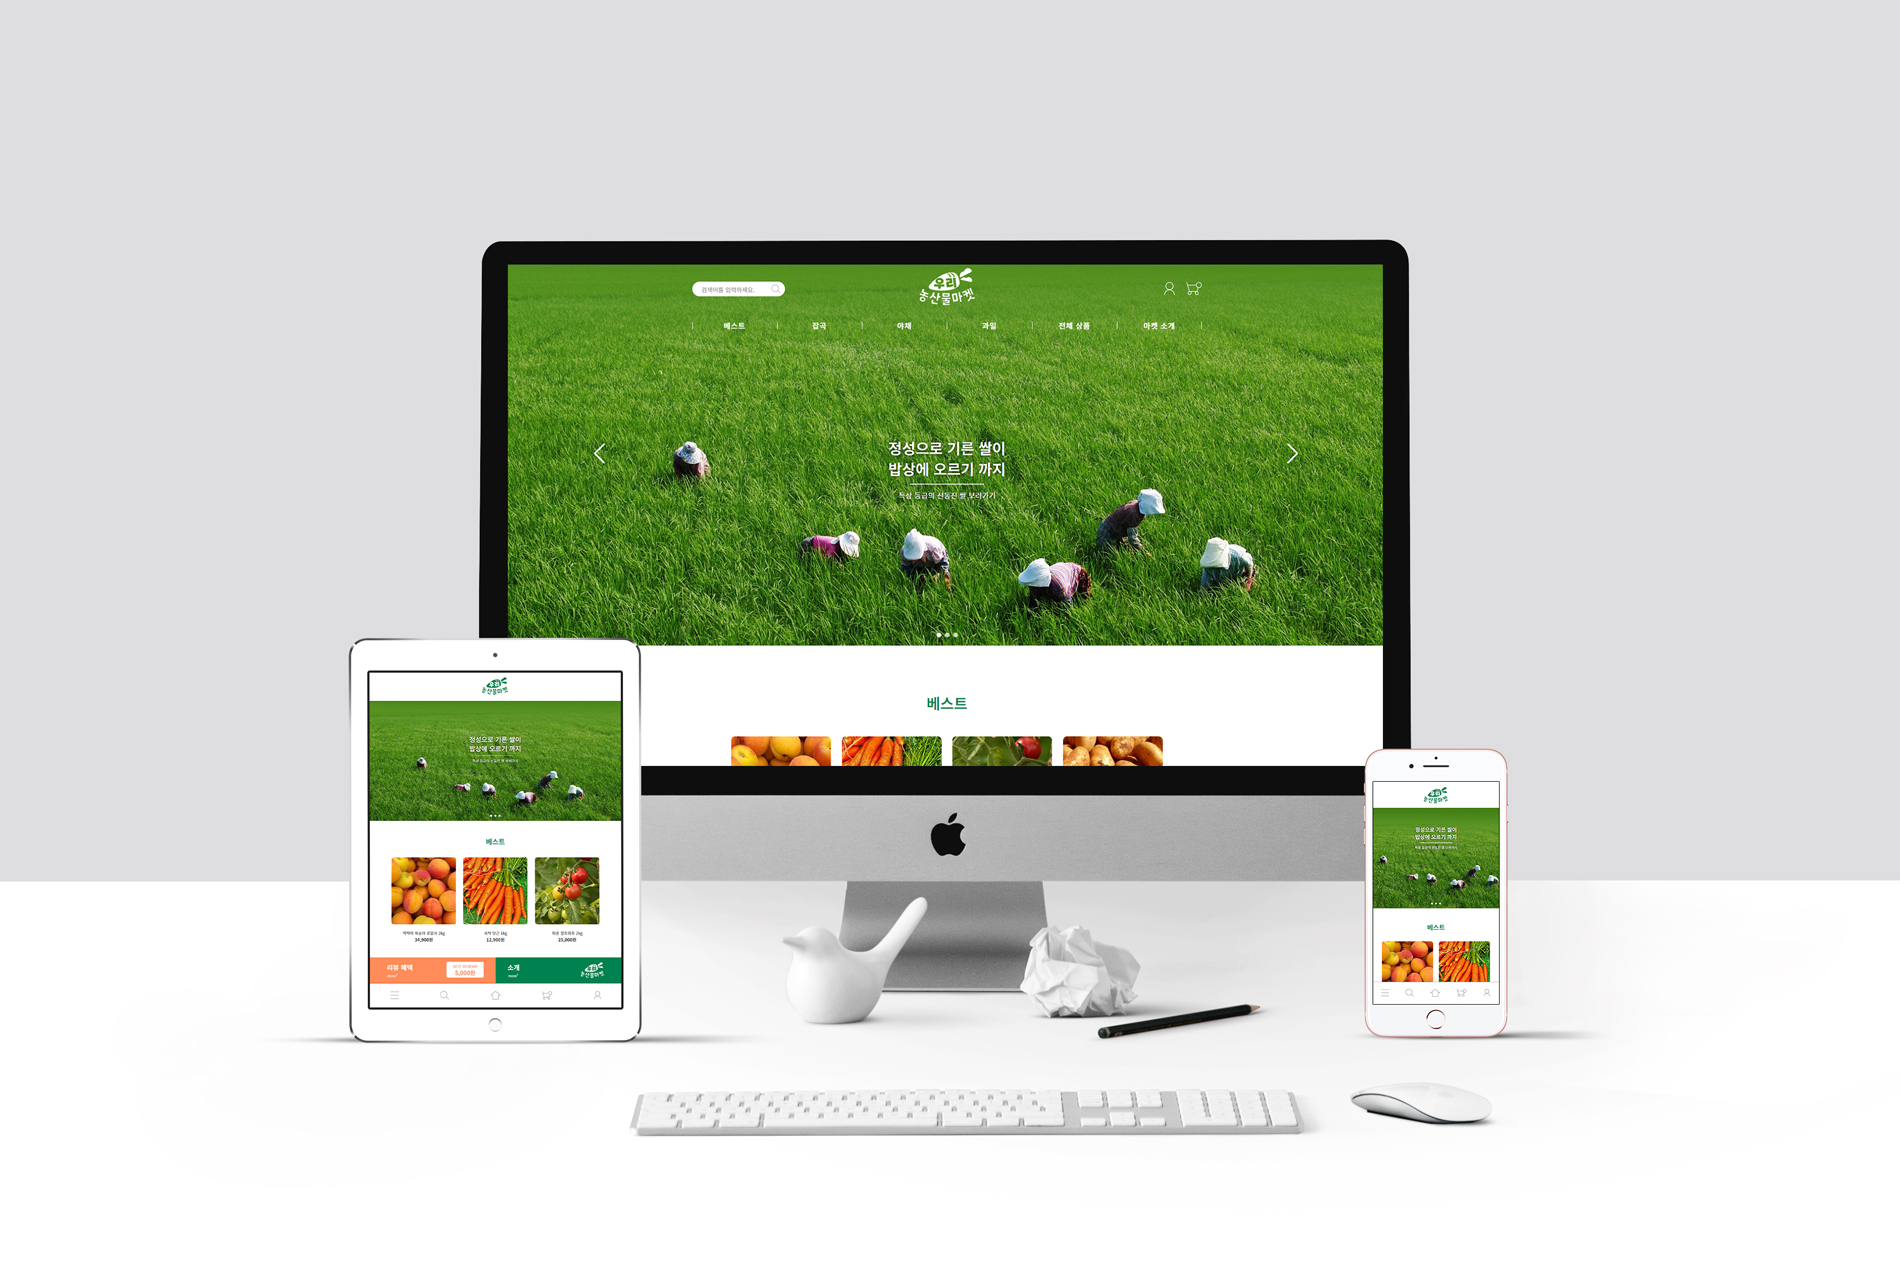
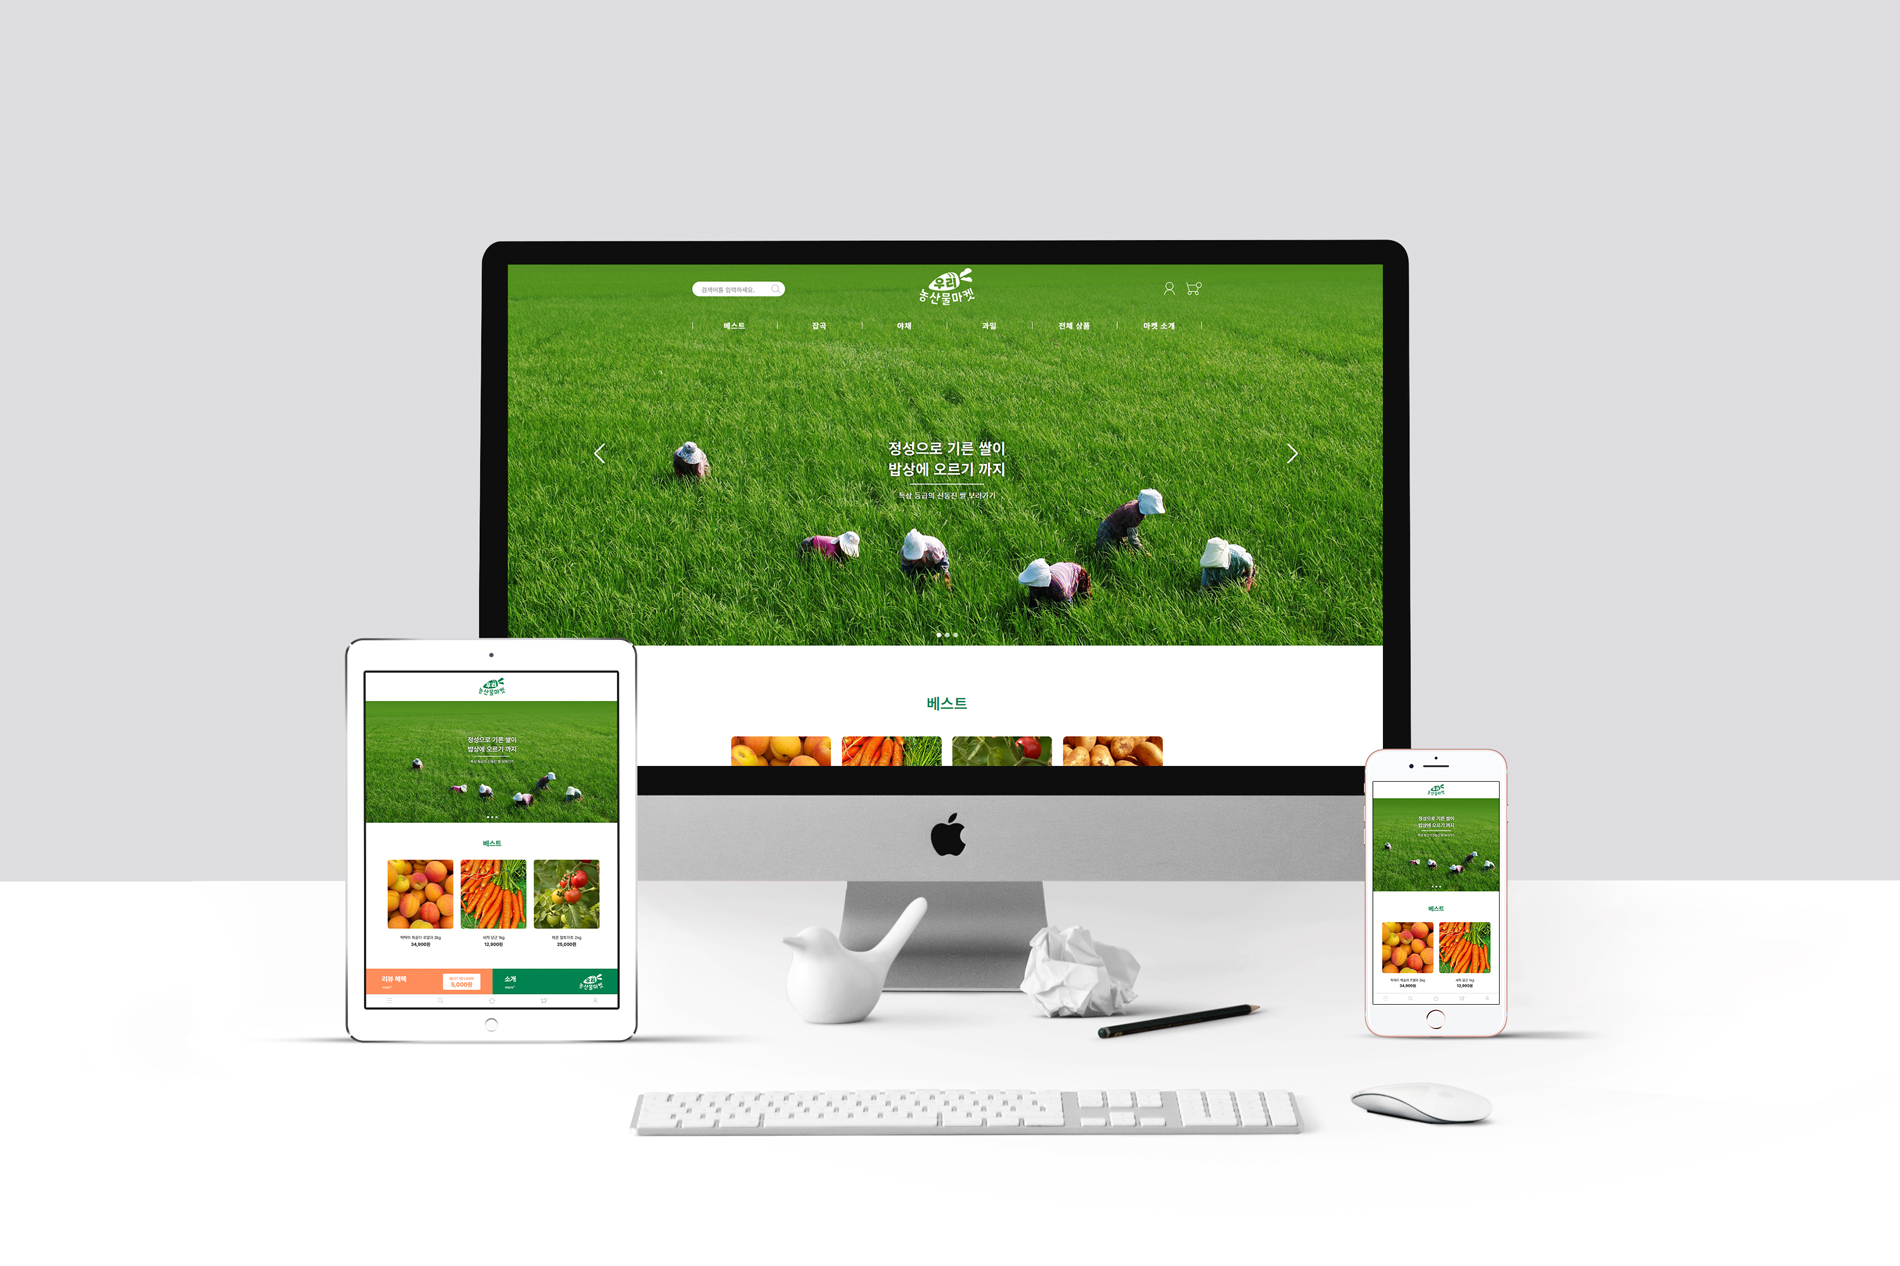
수정
수정

Changed region(s): [[0.1553, 0.5237, 0.3416, 0.8009], [0.7142, 0.6161, 0.8074, 0.8009]]

diff --git a/woori/css/style.css b/woori/css/style.css
@@ -37,7 +37,7 @@ h1, h2, h3, h4, p, strong, span {font-family: "Pretendard Variable";}
 
 /* 메뉴 로고 */
 .menu_m {display: none;}
-.menu_a {width: 100%; height: 108px; display: flex;
+.menu_a {width: 100%; height: 10.8rem; display: flex;
     justify-content: space-between; align-items: center;
     padding-top: 1rem; box-sizing: border-box; position: relative;}
 .logo a {display: block; width: 100%; height: 100%;}
@@ -78,7 +78,7 @@ h1, h2, h3, h4, p, strong, span {font-family: "Pretendard Variable";}
 
 .swiper-slide a {width: 100%; height: 100%; display: block; position: relative; z-index: 101;}
 .swiper-slide a strong {position: absolute; top: 54%; left: 50%; text-align: center;
-    color: #fff; font-size: 3.2rem; font-weight: 600; line-height: 1.4;
+    color: #fff; font-size: 3.2rem; font-weight: 600; line-height: 1.4; white-space: nowrap;
     transform: translate(-50%,-50%); text-shadow: 0px 0px 0.6rem rgb(0,0,0,0.8);}
 .swiper-slide a strong .line::after {content: ''; display: block; width: 16rem; height: 0.2rem;
     background-color: #fff; margin: 1rem 0; 
@@ -191,7 +191,7 @@ span.swiper-pagination-bullet-active {background: #fff;}
 /* 리뷰 */
 #review .container {padding-top: 10rem; width: 100%; /* height: 100%; */ /* box-sizing: border-box; */}
 .review_list {display: flex; justify-content: space-between;  padding-bottom: 10rem;}
-.review_list > li {width: 22%; border-radius: 10px;  border: 1px solid #969696;}
+.review_list > li {width: 22%; border-radius: 10px;  border: 1px solid rgba(0,0,0,.2);}
 .review_list > li > .review_bg_wrap {height: calc(100vh - 75rem); min-height: 18rem; max-height: 28rem;
     width: 100%; display: block; border-radius: 8px 8px 0 0; overflow: hidden;}
 .review_list > li .review_bg {width: 100%; height: 100%; display: block;
@@ -261,7 +261,6 @@ span.swiper-pagination-bullet-active {background: #fff;}
 }
 
 @media screen and (max-width:1023px){
-   
     html {font-size: 55%}
     .container {width: 100%;}
     #slider {min-height: 40rem; max-height: 55rem;}
@@ -269,11 +268,13 @@ span.swiper-pagination-bullet-active {background: #fff;}
 
     /* 슬라이드 메뉴 */
     #header {position: static; height: 13rem;}
+    .menu_a {height: 13rem;}
     .input_cellbox, .mypage, .nav {display: none;}
+    #header .container {position: relative;}
     .logo img {content: url(../images/logo_1.svg);}
     .swiper-slide a strong {position: absolute; top: 40%;
         font-size: 3rem;}
-    #best .container {padding-top: 7rem; height: auto;}
+    #best .container {padding-top: 7rem; height: auto; padding-bottom: 5rem;}
     .bestproduct01 li:last-child, .bestproduct02 li:last-child {display: none;}
     .bestproduct01 li, .bestproduct02 li {width: 30%;}
 
@@ -288,15 +289,15 @@ span.swiper-pagination-bullet-active {background: #fff;}
     .review_list li {width: 30%;}
 
     .bestproduct01 li .bp_bg,.bestproduct02 li .bp_bg {padding-top: calc(105 / 100 * 100%);} 
-    .best_menu {aspect-ratio: 16 / 7;}
+    .best_menu {aspect-ratio: 16 / 6.7;}
 
     /* 모바일메뉴 */
-    .menu_m {position: fixed; bottom: 0; left: 0; width: 100%; height: 11rem;
+    .menu_m {position: fixed; bottom: 0; left: 0; width: 100%; height: 6rem;
         z-index: 105; background: #fff; display: flex; 
         justify-content: space-around; align-items: center;
-        border-top: 1px solid #969696;}
+        border-top: 1px solid rgba(0,0,0,.2)}
     .menu_m a {display: block;}
-    .menu_m a img {height: 4.2rem;}
+    .menu_m a img {height: 2.6rem;}
     
     .nav_m_wrap {display: block; position: fixed; top: 0; left: 0;
         width: 70%; height: 100%; background: #fff; z-index: 200;}
@@ -306,16 +307,17 @@ span.swiper-pagination-bullet-active {background: #fff;}
 
     .nav_menu_m {position: relative;}
     .logo_m {width: 35%; height: 35%; margin: 0 auto; margin-top: 5rem; 
-        max-width: 16rem;}
+        max-width: 12rem;}
     .logo_m img {content: url(../images/logo_1.svg);}
     .login_m {display: flex; justify-content: center; gap: 5%; padding: 3rem 0 2rem 0;
         border-bottom: 1px solid #969696;}
     .login_m li a {font-size: 1.6rem;}
     .nav_menu_m {padding: 2rem 15%; border-bottom: 1px solid #969696;}
-    .nav_menu_m li a {display: block; font-size: 3rem; line-height: 8rem;;
+    .nav_menu_m li a {display: block; font-size: 2.6rem; line-height: 8rem;;
         font-weight: 600;}
     .nav_menu_m li:hover a {color: #008250;}
     .my_order {border-bottom: 1px solid #969696; width: 100%; padding: 2rem 0 8rem 0;}
+
     .customer_service {padding-top: 2rem;}
     .my_order a,.customer_service a {display: block; font-size: 2rem; padding-left: 15%;}
     .customer_service a strong { font-size: 2.4rem;}
@@ -327,11 +329,16 @@ span.swiper-pagination-bullet-active {background: #fff;}
     .nav_m_wrap, .nav_m_wrap_bg {display: none;}
 
 
-    #footer .container {padding-bottom: 14rem;}
+    #footer .container {padding-bottom: 8rem;}
     
  }
 
  @media screen and  (max-width:743px){
+    .menu_m {height: 6rem;}
+    .menu_m a img {height: 2.4rem;}
+    #header {position: static; height: 9rem;}
+    .menu_a {height: 9rem;}
+    .logo a img {height: 6rem;}
     #slider {max-height: 50rem;}
     html {font-size: 50%}
     #slider .swiper-button-next, #slider .swiper-button-prev {display: none;}
@@ -345,7 +352,9 @@ span.swiper-pagination-bullet-active {background: #fff;}
     .bestproduct01 li:last-child, .bestproduct02 li:last-child {display: block;}
     .bestproduct01, .bestproduct02 {flex-wrap: wrap;}
     .bestproduct01 li, .bestproduct02 li {width: 45%; height: 100%;}
-    .best_menu {aspect-ratio: 16 / 18.6;}
+    .bestproduct01 .bp_img1,.bestproduct01 .bp_img1, .bestproduct02 .bp_img5, .bestproduct02 .bp_img5
+    {margin-bottom: 2rem;}
+    .best_menu {aspect-ratio: 16 / 19;}
     .bestproduct01 li .bp_bg,.bestproduct02 li .bp_bg {padding-top: calc(100 / 100 * 100%);}
     
 
@@ -364,7 +373,7 @@ span.swiper-pagination-bullet-active {background: #fff;}
     .intro_font {width: 80%; right: 8%;}
     .intro_font .intro_line::after, .intro_font .intro_line02::after {background-color: #fff;}
     .intro_font h3, .intro_font p {color: #fff;}
-    #delivery_banner {height: 22rem; width: 100%;}
+    #delivery_banner {height: 21rem; width: 100%;}
     #delivery_banner .container {display: block;}
     .delivery_font {padding-top: 3rem;}
     .delivery_box {padding: 2rem 5rem;}
@@ -373,11 +382,11 @@ span.swiper-pagination-bullet-active {background: #fff;}
     .delivery_icon {position: absolute; top: -20%; right: 0;}
     .delivery_icon img {height: 25%;}
     
-    #footer .container {display: block; padding-bottom: 12rem;}
+    #footer .container {display: block; padding-bottom: 6rem;}
     #footer .container > div {width: 100%;}
     .footer1, .footer2_1, .footer2_2, .footer3_1 {padding-bottom: 5rem;}
     .footer3_2 ul {width: 70%;}
-    .footer3_2 ul li img {width: 7rem; height: 7rem;}
+    .footer3_2 ul li img {width: 6rem; height: 6rem;}
 
     .delivery_font2 {font-size: 2.2rem;}
     .delivery_font3 {font-size: 1.6rem;}
@@ -386,16 +395,51 @@ span.swiper-pagination-bullet-active {background: #fff;}
 
  }
 
- @media screen and (max-width:480px) {
-    .best_menu {padding-bottom: 5rem;}
+ @media screen and (max-width:490px) {
+    .nav_menu_m li a {font-size: 2.2rem;}
+    .best_menu {padding-bottom: 5rem; }
+    .best_name {font-size: 3rem; height: 6rem;}
+    .review_banner_font a strong, .delivery_font a strong {font-size: 2.6rem;}
+    .bp_font span {font-size: 1.6rem;}
+    .bp_font strong {font-size: 1.8rem; line-height: 2.8rem;}
+    .review_font strong {font-size: 1.4rem;}
+    .review_menu_font span {font-size: 1.4rem;}
+    .review_font .date {font-size: 1.2rem; padding: 0.5rem 0;}
+    .star {width: 2.6rem; height: 2.6rem;}
     .intro_font h3 {font-size: 3.4rem;}
     .intro_font p {font-size: 1.6rem;}
     .delivery_font2 {font-size: 1.7rem;}
     .delivery_font3 {font-size: 1.5rem;}
     #delivery_banner {height: 20rem; width: 100%;}
-    
+    #best .container {padding-bottom: 5.5rem;}
+    .review_list > li {margin-bottom: 4rem;}
+    .review_list > li > .review_bg_wrap {height: calc(100vh - 90rem); min-height: 16rem; 
+        width: 100%; display: block; border-radius: 8px 8px 0 0; overflow: hidden;}
+    .review_list > li > .review_font {max-height: 18.2rem; width: 100%; display: block; padding: 0.8rem; box-sizing: border-box;}
+    .review_box {margin-right: 8%;}
+    .delivery_box {padding: 2rem 4rem;}
+    .review_banner_font, .delivery_font {padding-left: 4rem;}
+    .intro_banner_img, .delivery_icon {padding-right: 4rem;}
+    #delivery_banner {height: 19rem;}
     
  }
 
+ @media screen and (max-width:374px) {
+    html {font-size: 45%}
+    .bestproduct01 .bp_img1,.bestproduct01 .bp_img1, .bestproduct02 .bp_img5, .bestproduct02 .bp_img5
+    {margin-bottom: 1rem;}
+    .intro_font h3 {font-size: 2.8rem; margin-bottom: 1.5rem;}
+    .intro_font p {font-size: 1.4rem;}
+    #intro .container {max-height: 50rem;}
+    #main #intro {max-height: 50rem;}
+    .review_banner_font, .delivery_font {padding-left: 3rem;}
+    .intro_banner_img, .delivery_icon {padding-right: 3rem;}
+    .review_box {margin-right: 6%;}
+    .delivery_box {padding: 2rem 3rem;}
+    .review_banner_font, .delivery_font {padding-left: 3rem;}
+    .intro_banner_img, .delivery_icon {padding-right: 3rem;}
+    .delivery_font2 {font-size: 1.6rem;}
+    .delivery_font3 {font-size: 1.4rem;}
+ }
 
 

diff --git a/woori/index.html b/woori/index.html
@@ -454,7 +454,7 @@
                 </div>
             </div>
         </footer>
-    </div>se]\
+    </div>
     
 
 
